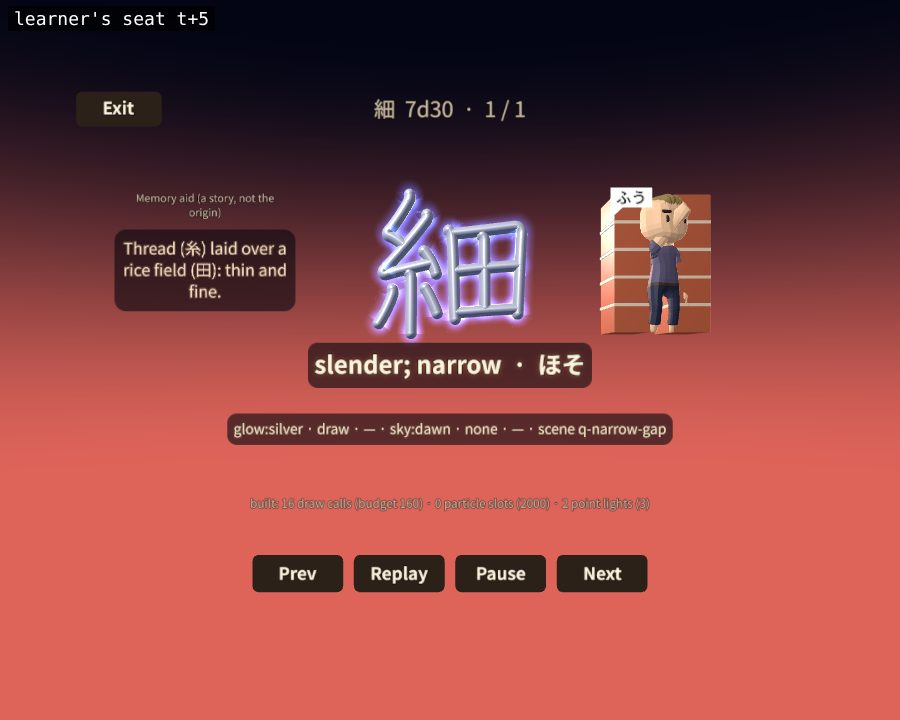
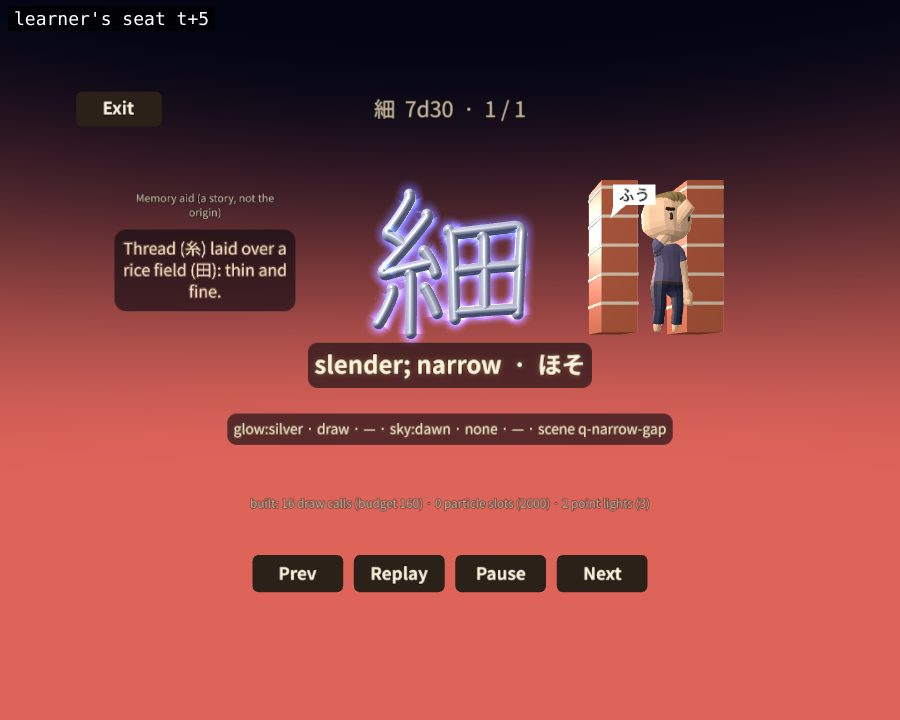
細: wider gap, arms in while he squeezes through (Haiku, plan h8 round 2)
Claude-Session: https://claude.ai/code/session_01AzAr48Yq4uWbRR6vcwQrUQ

Changed region(s): [[0.6533, 0.2444, 0.8089, 0.4889]]

diff --git a/src/effects/vignettes/h-narrow.js b/src/effects/vignettes/h-narrow.js
@@ -11,13 +11,13 @@ import { G } from '../pieces/shape-kit.js';
 import { between } from './helpers.js';
 import { ADULT, RIGHT, label, pop, speech, turnTo } from './q-common.js';
 
-const BRICK = 0xb0583a, MORTAR = 0xd8c8b0, Z0 = -0.45, Z_STOP = -0.33;
+const BRICK = 0xb0583a, MORTAR = 0xd8c8b0, Z0 = -0.45, Z_STOP = -0.27;
 const w1 = new THREE.Vector3(), w2 = new THREE.Vector3();
 
-// a brick wall, 0.25 wide, 0.95 tall, 0.5 deep, standing on the ground at group x cx; mortar lines wrap its faces
+// a brick wall, 0.25 wide, 1.05 tall, 0.5 deep, standing on the ground at group x cx; mortar lines wrap its faces
 function brickWall(u, cx, floor, name) {
-  const list = [[G.box(0.25 * u, 0.95 * u, 0.5 * u, 0, 0.475 * u, 0), BRICK]];
-  for (const y of [0.19, 0.38, 0.57, 0.76]) list.push([G.box(0.258 * u, 0.022 * u, 0.508 * u, 0, y * u, 0), MORTAR]);
+  const list = [[G.box(0.25 * u, 1.05 * u, 0.5 * u, 0, 0.525 * u, 0), BRICK]];
+  for (const y of [0.2, 0.4, 0.6, 0.8, 1.0]) list.push([G.box(0.258 * u, 0.022 * u, 0.508 * u, 0, y * u, 0), MORTAR]);
   const wall = solidProp(list, 0.3);
   wall.name = name; wall.position.set(cx, floor, 0);
   return wall;
@@ -28,7 +28,7 @@ function narrowGap(ctx, spec, stage) {
   const P = (x, y, z) => new THREE.Vector3(B.maxX + x * u, floor + y * u, z * u);   // group-space point: x from the kanji's edge
   const man = actor('guy2', ADULT * u);
   const bang = label(u, '!', '#d8402a', 0.22), bubble = speech(u, 'ふう', { h: 0.13 });
-  const wallL = brickWall(u, B.maxX + 0.745 * u, floor, 'wallL'), wallR = brickWall(u, B.maxX + 1.155 * u, floor, 'wallR');
+  const wallL = brickWall(u, B.maxX + 0.655 * u, floor, 'wallL'), wallR = brickWall(u, B.maxX + 1.245 * u, floor, 'wallR');
   group.add(man.group, bang, bubble, wallL, wallR);
   const loop = 7.0, GAP_X = 0.95;
   return {
@@ -36,18 +36,24 @@ function narrowGap(ctx, spec, stage) {
     step(t) {
       const A = acts(ctx, t, loop), pre = A.u < 0, v = pre ? -1 : A.v;
       // where he is (group space, z toward the learner) and which way he faces (0 = the learner, RIGHT = sideways, +x)
-      const z = v < 0 || v >= 6.6 ? Z0 : v < 1.2 ? Z0 + (Z_STOP - Z0) * between(v, 0, 1.2) : v < 2.0 ? Z_STOP : v < 4.5 ? -0.3 + 0.63 * between(v, 2.0, 4.5) : 0.33 + 0.02 * between(v, 4.5, 5.2);
+      const sideways = between(v, 1.5, 2.0) * (1 - between(v, 4.5, 5.2));   // 1 while he is turned sideways in the gap
+      const sway = 0.01 * Math.sin(v * 5) * (sideways > 0 && v < 4.5 ? 1 : 0);   // a small side-to-side rock as he shuffles
+      const z = v < 0 || v >= 6.6 ? Z0 : v < 1.2 ? Z0 + (Z_STOP - Z0) * between(v, 0, 1.2) : v < 2.0 ? Z_STOP : v < 4.5 ? Z_STOP + (0.37 - Z_STOP) * between(v, 2.0, 4.5) : 0.37 + 0.08 * between(v, 4.5, 5.2);
       const yaw = turnTo(turnTo(0, RIGHT, between(v, 1.5, 2.0)), 0, between(v, 4.5, 5.2));
       // sideways, his body hangs about 0.1 behind his origin (the model's middle sits there): shift the origin so the middle is in the gap
       const dx = 0.1 * (between(v, 1.5, 2.0) - between(v, 4.5, 5.2));
-      man.group.position.copy(P(GAP_X + dx, 0, z)); man.group.rotation.y = yaw;
+      man.group.position.copy(P(GAP_X + dx + sway, 0, z)); man.group.rotation.y = yaw;
       // he shrinks away at the front (6.3-6.6), is small at the back, and grows back (6.7-7) to stand full size at the loop's start
       const shown = pre || v < 6.3 ? 1 : v < 6.6 ? 1 - 0.95 * between(v, 6.3, 6.6) : 0.05 + 0.95 * between(v, 6.7, 7.0);
       man.group.scale.setScalar(shown);
       if (v < 1.2 && !pre) man.pose('Walk', v); else man.pose('Idle', t);    // the walk clip only while walking forward
+      // arms in: both hands flat against his chest while he is sideways in the gap (the body is as thin as it gets)
+      const armsIn = sideways * (1 - between(v, 4.4, 4.5));
+      man.handTo('R', man.local(-0.1, 0.5, -0.04, w2), armsIn, { out: 0.3, down: 0.6 });
+      man.handTo('L', man.local(0.1, 0.5, -0.04, w2), armsIn, { out: 0.3, down: 0.6 });
       // the brow wipe: the right hand (its -x side) to the forehead and back, while he stands in front of the learner
       const wipeK = between(v, 4.5, 4.8) * (1 - between(v, 5.3, 5.6)), sw = 0.05 * Math.sin((v - 4.8) * 9);
-      man.handTo('R', man.at('eyes', w1, -0.06 + sw, 0.06, 0.03), wipeK, { out: 0.6, down: 0.8 });
+      man.handTo('R', man.at('eyes', w1, -0.06 + sw, 0.07, 0.03), wipeK, { out: 0.6, down: 0.8 });
       // the ! over his head as he bumps; the ふう bubble as he wipes
       pop(bang, pre ? 0 : between(v, 1.2, 1.5) * (1 - between(v, 1.9, 2.2)), ...group.worldToLocal(man.at('over', w1)).toArray());
       pop(bubble, pre ? 0 : between(v, 4.6, 4.9) * (1 - between(v, 5.4, 5.7)), ...group.worldToLocal(man.local(-0.45, 0.95, 0.1, w2)).toArray());
